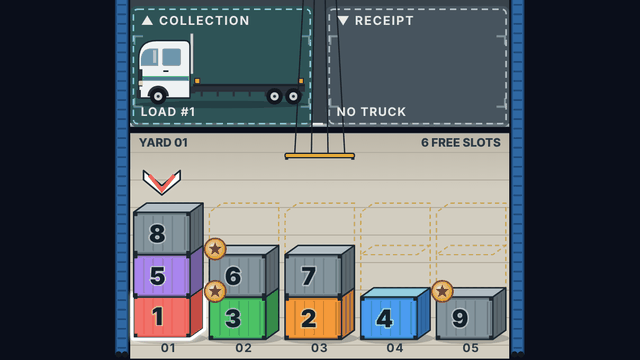
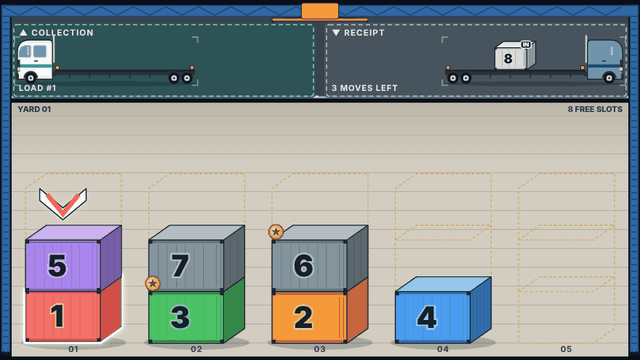
Yardshift: bays right under the beam (spare height to the yard, never bare road); the spreader parks under the trolley and pays out only during a move
Re-captured docs/prototypes/2d and the cover.

Claude-Session: https://claude.ai/code/session_0155BNjwPfcnFQSyZNLHGLyJ

diff --git a/src/sims/yardshift/modules/presentation.ts b/src/sims/yardshift/modules/presentation.ts
@@ -82,34 +82,30 @@ export const BAY_SHARE = 0.22
 export const MAX_BAY_SHARE = 0.24
 
 /** Room at the top of the surface for the gantry beam, which spans over the road strip (owner round 5). */
-export const BEAM_ROOM_PX = 20
+export const BEAM_ROOM_PX = 26
 /** Gap between the road strip and the yard below it. */
 const ROAD_GAP = 6
 
 /**
  * Screen layout of the play surface (owner round 5: trucks above the yard): the gantry beam's room at the top, the
- * road strip under it with the two truck bays side by side at its foot, then the yard band with one column per stack.
- * With the `capacity` (art pass 3), the yard is exactly as tall as full stacks plus crane headroom need (`yardFit`,
- * boxes sized from the column width) and sits on the bottom margin, the bays take `BAY_SHARE` (up to `MAX_BAY_SHARE`
- * when a tall phone leaves height over) right over it, and the rest of the height is more road above the bays (where
- * the sky band was), so the trucks always sit right over the stacks. Without it the bays sit under the beam and the
- * yard fills the rest.
+ * road strip under it (just the two truck bays side by side), then the yard band with one column per stack. With the
+ * `capacity` (art pass 3), the bays take `BAY_SHARE` (up to `MAX_BAY_SHARE` when a tall phone leaves height over) and
+ * the yard the rest: at least what full stacks plus crane headroom need (`yardFit`), spare height as concrete
+ * headroom, never as bare road. Without it the bays take their usual share.
  */
 export function layoutFor(stackCount: number, vp: Viewport, capacity?: number): Layout {
   const innerW = Math.max(0, vp.width - 2 * SIDE)
   const roadTop = Math.round(vp.height * 0.02) + BEAM_ROOM_PX
   const yardBottom = Math.max(roadTop, vp.height - 8)
   let bayH = Math.round(Math.min(vp.height * 0.25, Math.max(84, vp.height * 0.24)))
-  let bayTop = roadTop
+  const bayTop = roadTop
   if (capacity !== undefined && stackCount > 0) {
     const total = yardBottom - roadTop
     bayH = Math.round(Math.min(total * 0.26, Math.max(84, total * BAY_SHARE)))
     const fit = yardFit(innerW / stackCount, capacity, total - bayH - ROAD_GAP)
     // Height over on a tall phone goes to the bays first (their trucks scale up with them) up to `MAX_BAY_SHARE`,
-    // then to the road above them. The canvas always fills the whole play surface: no dark gaps.
-    const spare = () => Math.max(0, total - bayH - ROAD_GAP - fit.h)
-    bayH += Math.min(Math.max(0, Math.round(total * MAX_BAY_SHARE) - bayH), spare())
-    bayTop = roadTop + spare()
+    // then to the yard's concrete headroom. The canvas always fills the whole play surface: no dark gaps.
+    bayH += Math.min(Math.max(0, Math.round(total * MAX_BAY_SHARE) - bayH), Math.max(0, total - bayH - ROAD_GAP - fit.h))
   }
   const bayBottom = Math.min(yardBottom, bayTop + bayH)
   const yardTop = Math.min(yardBottom, bayBottom + ROAD_GAP)

diff --git a/src/sims/yardshift/composables/useYardCanvas.ts b/src/sims/yardshift/composables/useYardCanvas.ts
@@ -1002,7 +1002,8 @@ export function useYardCanvas(
     // The crane: the trolley rests where the last move ended; a move animates hook, spreader and box.
     const yardMid = layout.yard.x + layout.yard.w / 2
     let hookX = restX ?? yardMid
-    let hookY = geo.carryY - geo.dy
+    // At rest the spreader parks just under the trolley; the cables pay out only during a move.
+    let hookY = geo.parkY
     let gripping = false
     if (m && (moving || movingCargo)) {
       const paint: Paint = moving
@@ -1012,18 +1013,21 @@ export function useYardCanvas(
       const src = moving ? boxAt(geo, layout, m.from, moving.tier) : receiptTruck.cargo
       const dst = m.to >= 0 ? boxAt(geo, layout, m.to, stackHeight(m.to)) : collectTruck.cargo
       const p = cranePhase(m.progress)
+      // Travel height: over the stacks, or level with a truck when one end is a truck (up in the road strip).
+      const travelY = Math.min(geo.carryY, src.y, dst.y)
       let box: Box
       if (p.leg === 'toSource') {
         hookX = lerp(restX ?? yardMid, centreX(src), p.t)
+        hookY = lerp(geo.parkY, travelY - src.dy, p.t)
         box = src
       } else if (p.leg === 'release') {
         hookX = centreX(dst)
         box = dst
-        hookY = lerp(dst.y - dst.dy, geo.carryY - geo.dy, p.lift)
+        hookY = lerp(dst.y - dst.dy, geo.parkY, p.lift)
       } else {
         const sized = lerpBox(src, dst, p.t)
         const low = p.t < 1 ? src.y : dst.y
-        const y = lerp(low, geo.carryY, p.lift)
+        const y = lerp(low, travelY, p.lift)
         hookX = centreX(sized)
         box = p.carrying ? { ...sized, y } : src
         hookY = p.carrying ? y - sized.dy : y - src.dy

diff --git a/src/sims/yardshift/modules/yardGeometry.ts b/src/sims/yardshift/modules/yardGeometry.ts
@@ -43,8 +43,10 @@ export interface YardGeometry {
   /** How far a selected container lifts. */
   lift: number
   gantry: Gantry
-  /** Where the crane hook carries a box: the front face top while travelling, just under the road strip. */
+  /** Where the crane hook carries a box between stacks: the front face top while travelling, just under the road. */
   carryY: number
+  /** Hook height at rest (owner round 5): the spreader parks just under the trolley, above the road strip. */
+  parkY: number
 }
 
 /** Room under the ground line for the stack numbers. */
@@ -116,7 +118,8 @@ export function yardGeometry(layout: Layout, capacity: number): YardGeometry {
   // just under the HUD bands, and the hoist cables hang down across the road to the spreader; the crane lifts a box
   // from the yard up to a truck, and lowers a receipt from its truck down into the yard. No sky band.
   const road = layout.road
-  const beamY = Math.max(0, road.y - beamH - 2)
+  // Room under the beam for the parked spreader (4 px) above the road strip.
+  const beamY = Math.max(0, road.y - beamH - 8)
   const floor = { ...yard }
   const legW = Math.max(6, Math.min(12, yard.x - 4))
   const gantry: Gantry = {
@@ -127,7 +130,7 @@ export function yardGeometry(layout: Layout, capacity: number): YardGeometry {
     beamH,
     footY: yard.y + yard.h - 4,
   }
-  return { road, floor, groundY, boxW, boxH, dx, dy, lift: boxH * LIFT, gantry, carryY }
+  return { road, floor, groundY, boxW, boxH, dx, dy, lift: boxH * LIFT, gantry, carryY, parkY: beamY + beamH + 7 }
 }
 
 /** The box of the container at `tier` (0 = bottom) of stack `stack`, raised by `lift` px. */

diff --git a/src/sims/yardshift/modules/playtestFixes.test.ts b/src/sims/yardshift/modules/playtestFixes.test.ts
@@ -78,10 +78,10 @@ describe('Yardshift playtest fixes', () => {
       expect(fit.yard.y - (fit.collection.y + fit.collection.h)).toBeLessThanOrEqual(8)
       expect(fit.collection.h).toBeGreaterThanOrEqual(Math.min(84, vp.height * 0.2) - 1)
       expect(fit.collection.h).toBeLessThanOrEqual(Math.max(84, vp.height * 0.3) + 1)
-      // No dark gaps: the road starts under the beam room at the top, holds both bays at its foot (spare height is
-      // more road above them) and the yard ends at the bottom margin.
+      // No dark gaps and no bare road: the bays sit right under the beam room, the road is just the bays' strip, and
+      // spare height goes to the yard, which ends at the bottom margin.
       expect(fit.road.y).toBe(l.road.y)
-      expect(l.collection.y).toBe(l.road.y)
+      for (const lay of [l, fit]) expect(lay.collection.y).toBe(lay.road.y)
       for (const lay of [l, fit]) expect(lay.collection.y + lay.collection.h).toBe(lay.road.y + lay.road.h)
       expect(fit.yard.y + fit.yard.h).toBe(l.yard.y + l.yard.h)
     }

diff --git a/src/sims/yardshift/modules/yardGeometry.test.ts b/src/sims/yardshift/modules/yardGeometry.test.ts
@@ -66,6 +66,9 @@ describe('Yardshift 2D yard geometry', () => {
           expect(g.carryY - g.dy - layout.yard.y, where).toBeGreaterThanOrEqual(8)
           // The crane lifts high, just under the road (captions and spreader room), so the lift up to a truck is short.
           expect(g.carryY - g.dy - layout.yard.y, where).toBeLessThanOrEqual(CAPTION_PX + 8 + 1)
+          // At rest the spreader parks just under the trolley, above the road (no cables down through the bays).
+          expect(g.parkY - 5, where).toBeGreaterThanOrEqual(g.gantry.beamY + g.gantry.beamH)
+          expect(g.parkY - 1, where).toBeLessThanOrEqual(g.road.y)
           // The legs run from the beam down the full yard.
           expect(g.gantry.footY).toBeGreaterThanOrEqual(g.groundY)
           // Boxes are sized from the column width first: on a phone they are as tall as the 1.3:1 shape allows.

diff --git a/src/sims/yardshift/yardshift-AGENTS.md b/src/sims/yardshift/yardshift-AGENTS.md
@@ -49,14 +49,16 @@ and crane frames, and a backing store scaled by `devicePixelRatio` (capped at 3)
   it past `ASPECT_MAX` 1.45. `numberSize(box)` is `NUMBER_SHARE` (58 %) of the box height. `chevronAt(geo, layout,
   stack, height)` places the NEXT chevron just above the stack top, inside its column, under the road strip, with
   `CHEVRON_BOUNCE` (3 px) room each way. Owner round 5 (trucks above the yard): the road strip (`layout.road`, drawn
-  as asphalt with kerbs and dashed lane lines) runs across the top of the surface with both truck bays at its foot,
-  right over the stacks; there is no sky band. The gantry beam (`beamHFor`) spans the top, over the road, with the
+  as asphalt with kerbs and a dashed lane line) is just the two truck bays side by side under the beam, right over
+  the stacks; there is no sky band and never bare road. The gantry beam (`beamHFor`) spans the top, over the road, with the
   legs running down beside the bays and the full yard; the trolley rides the beam and its cables hang down across
   the road to the spreader. The yard has a `CAPTION_PX` (16 px) row at its top for "YARD 01" and "n FREE SLOTS",
   then the crane headroom: the carry height `carryY` sits just under the road (caption and spreader room), always at
-  least one box over a full stack; at rest the spreader hangs there. A collect lifts the box from its stack up to
-  the collection truck's trailer, a receive lowers the receipt cargo from its truck down into the yard (the same
-  `cranePhase` legs; the destination is simply above the carry height). `yardFit(colW, capacity, maxH)` gives the
+  least one box over a full stack. At rest the spreader parks just under the trolley (`parkY`, in the 6 px between
+  beam and road), so no cables hang through the bays; the cables pay out only during a move: down to the source,
+  then the box travels at `carryY`, or level with the truck when one end is a truck (`min(carryY, src.y, dst.y)`),
+  and after the release the spreader rises back to its park. A collect lifts the box from its stack up to the
+  collection truck's trailer, a receive lowers the receipt cargo from its truck down into the yard. `yardFit(colW, capacity, maxH)` gives the
   box height and the yard that fits it exactly. Each bay's truck (`truckIn(bay, geo, facing)`): tractor cab at the end it faces (the receipt truck faces
   right with its cab under `arrowBox`, the collection truck faces left), a heavy skeletal trailer, three axles, cargo
   a yard box scaled up to `MAX_CARGO_SCALE` 1.6, the cab up to 28 % of the bay width, the whole truck filling most of the bay width and centred
@@ -65,17 +67,18 @@ and crane frames, and a backing store scaled by `devicePixelRatio` (capped at 3)
   every slot (the top one lifted too) lies inside its own column hit region and under the road, the box aspect stays
   1.3 to 1.45 (under 1.35 on a phone), the number 55 to 60 % of the box, the chevron inside its column clear of the
   stack top and the road at every stack height, the beam above both bays and the road (which holds both bays) above
-  the yard, the carried box clears a full stack and hangs 8 to 25 px under the road, each truck's cargo slot sits
+  the yard, the carried box clears a full stack and hangs 8 to 25 px under the road, the parked spreader sits
+  between the beam and the road, each truck's cargo slot sits
   above the carry height, under the beam and between the legs (the crane carries a box up to it), the legs touch no
   column, and each truck (both facings) lies inside its
   bay, fills most of its width, is vertically centred, has its cab ahead of the trailer and its wheels on the road,
   with the cargo on the trailer and the arrow over the receipt cab, clear of the cargo.
 - `layoutFor(stackCount, viewport, capacity)` (`present` passes the capacity), top to bottom (owner round 5): 2 % margin
-  and `BEAM_ROOM_PX` (20) for the beam, the road strip with both bays side by side at its foot, a 6 px gap, then the
-  yard down to the bottom margin. The bays take `BAY_SHARE` (22 %, at least 84 px) of the surface and the yard exactly
-  what `yardFit` needs. Height left on a tall phone goes first to the bays (up to `MAX_BAY_SHARE`, 24 %; the trucks
-  scale with them), then to more road above the bays (where the sky band was), so the trucks always sit right over
-  the stacks. The canvas always fills the whole play surface: no dark gaps (`playtestFixes.test.ts`). Hit regions
+  and `BEAM_ROOM_PX` (26) for the beam and the parked spreader, the road strip (just the two bays side by side), a
+  6 px gap, then the yard down to the bottom margin. The bays take `BAY_SHARE` (22 %, at least 84 px) of the surface
+  and the yard at least what `yardFit` needs. Height left on a tall phone goes first to the bays (up to
+  `MAX_BAY_SHARE`, 24 %; the trucks scale with them), then to the yard's concrete headroom (orchestrator review:
+  never to bare road above the bays). The canvas always fills the whole play surface: no dark gaps (`playtestFixes.test.ts`). Hit regions
   still come from the layout only and move with the bays; the road itself is paint, never a target. Without the
   capacity the bays sit right under the beam and the yard fills the rest. The arrival announcement pill sits at the
   top of the yard, clear of the bays.
@@ -94,7 +97,7 @@ and crane frames, and a backing store scaled by `devicePixelRatio` (capped at 3)
   `bonus-miss` (the gold fades to the box's own colour with a poof), `reject` (a refused move shakes the tapped
   container sideways in red, `rejectX`). `sparkles` and `shineAt` drive the gold shine.
 - `composables/useYardCanvas.ts` only paints: the road strip (asphalt from the beam down, kerbs, a dashed lane line
-  along the trucks' wheels and one down any road above the bays), floor, dashed slot outlines up to capacity,
+  along the trucks' wheels), floor, dashed slot outlines up to capacity,
   "YARD 01" and "n FREE SLOT(S)" captions along the top of the concrete, the two bays painted over the road (dashed
   border, painted stall corner marks so an empty bay still reads as one, teal collection, slate receipt, red at
   deadline 0; labels "▲ COLLECTION" and "▼ RECEIPT"), illustrated trucks (rounded cab roof, windscreen and side
@@ -293,9 +296,9 @@ keeps the behaviours (lift and rim, ghosts, slot outlines, stack labels, arrow b
   in the receipt bay; plus singular and plural copy ("1 MOVE LEFT", "1 rehandle", "1 star bonus").
 - Scene: the gantry beam runs along the slanted row of stacks (first to last column, legs just outside) and moves
   across it with the trolley; the trolley rest point resets when the surface size or stack count changes.
-- Cover: `assets/cover.png` (re-cut in owner round 5) is a 640x360 cut of the phone level 3 capture (390x844 at 2x,
-  `loadLevel(3)` then the fixture's first move): the band from the foot of the road (both bays) down to the stack
-  numbers, centred on the page background to 16:9, 8-bit palette, about 30 KB.
+- Cover: `assets/cover.png` (re-cut in owner round 5) is the play surface of the desktop level 4 capture
+  (1280x800 at 1x, `loadLevel(4)`: crop x 200 to 1080, y 212 to 707, both trucks over the stacks) scaled to 640x360,
+  8-bit palette, about 30 KB.
 
 ## Audio cues (#388)
 
